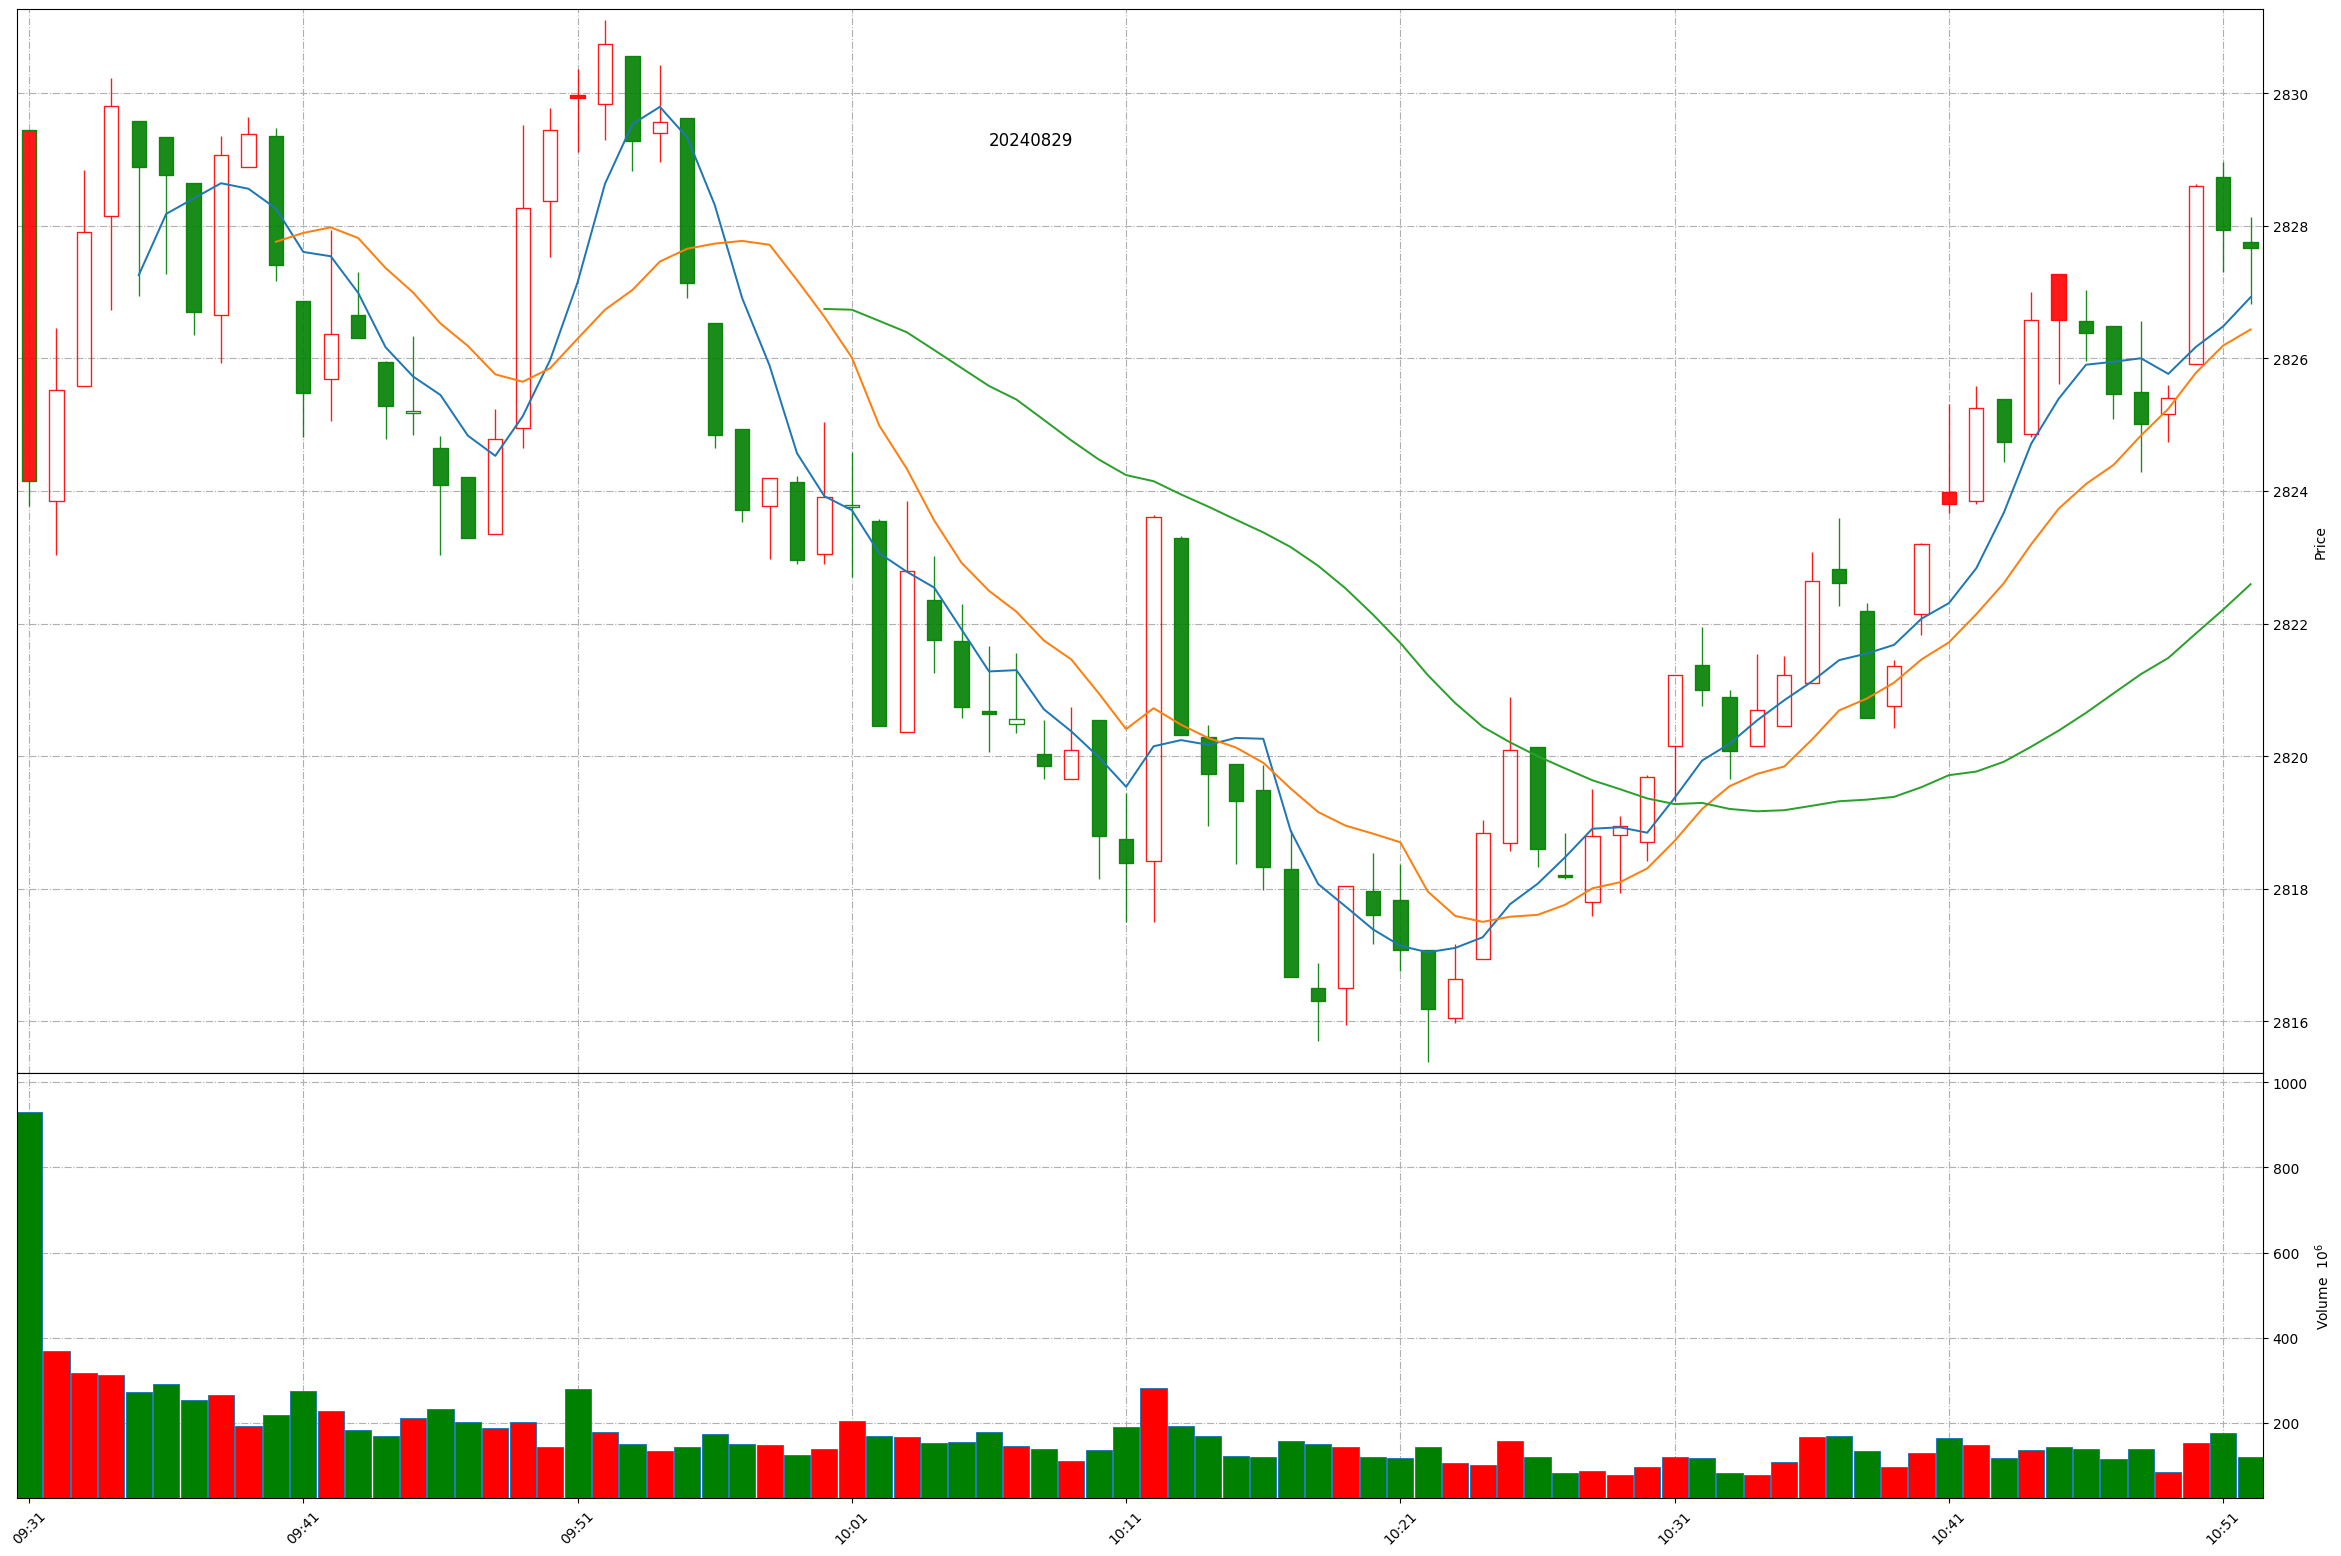
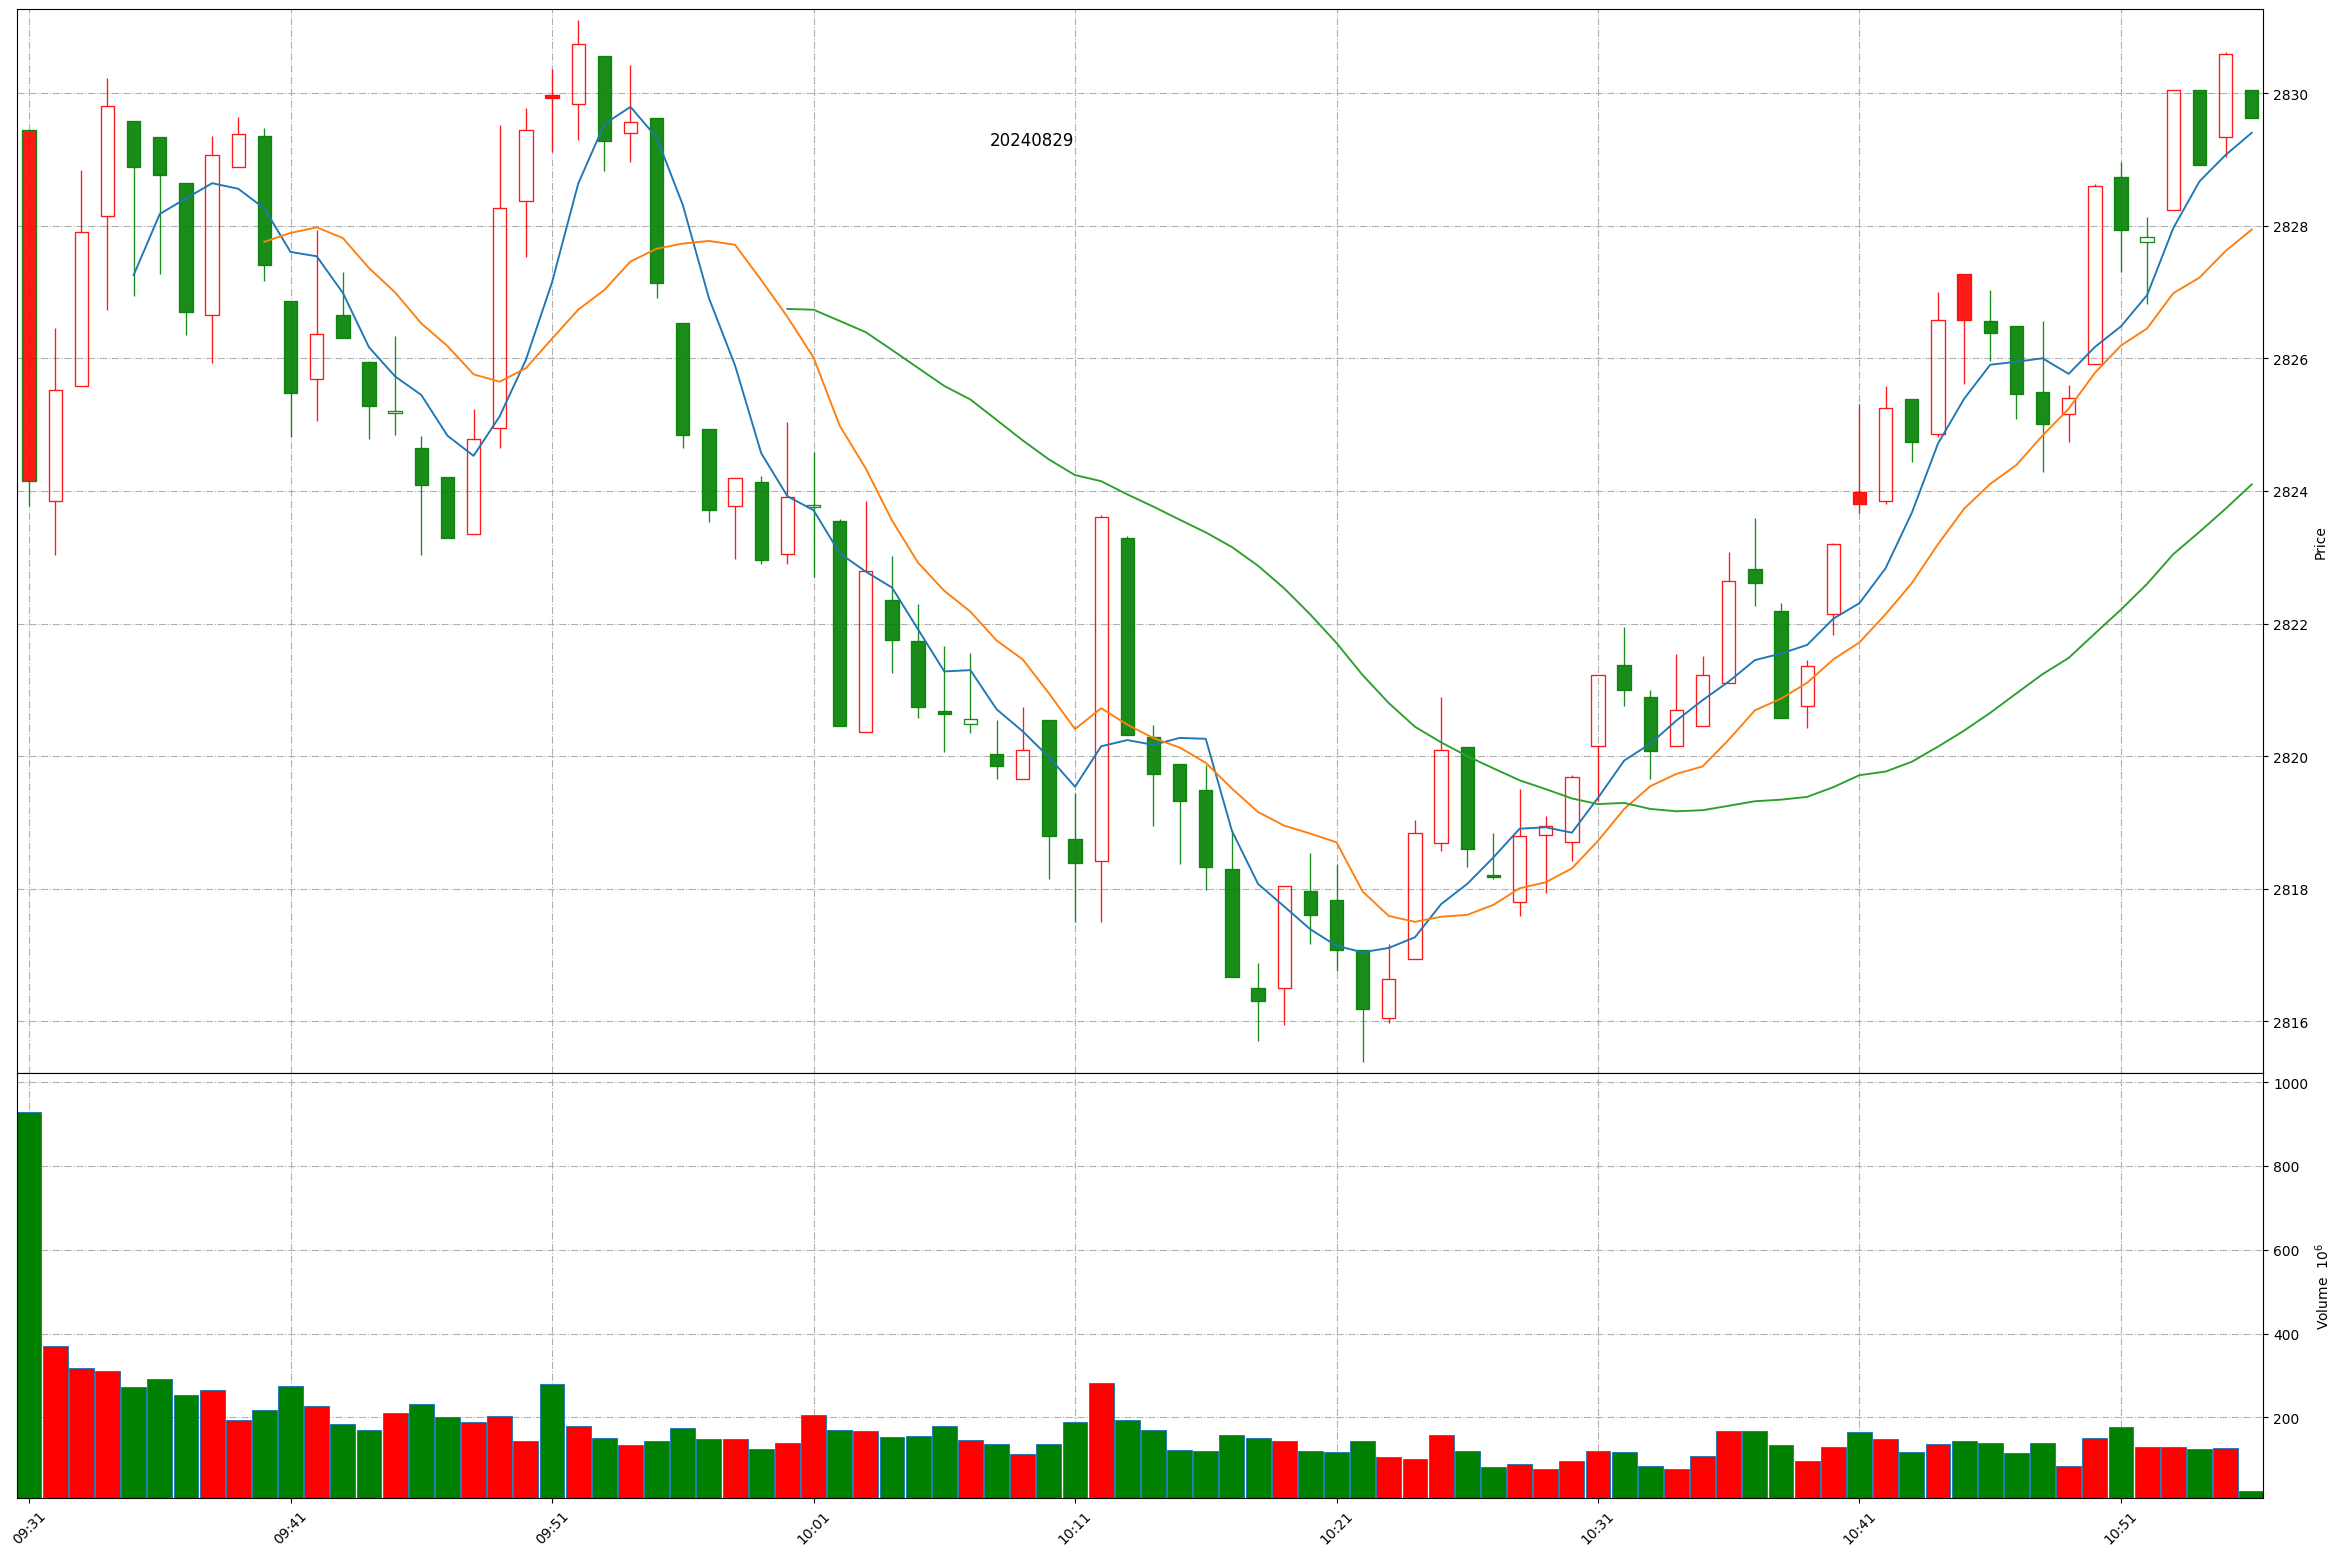
Github action update at 2024-08-29 10:55:30.

diff --git a/README.md b/README.md
@@ -1,11 +1,11 @@
 
 # Daily-A-share-market-quotes 每日 A 股指数（5min 更新）- 20240829
 
-### 上证指数 20240829 10:52
+### 上证指数 20240829 10:55
 ![](./fig/2024/8/20240829-sh000001.png)
 
-### 深证成指 20240829 10:52
+### 深证成指 20240829 10:55
 ![](./fig/2024/8/20240829-sz399001.png)
 
-### 北证50 20240829 10:52
+### 北证50 20240829 10:55
 ![](./fig/2024/8/20240829-bj899050.png)
